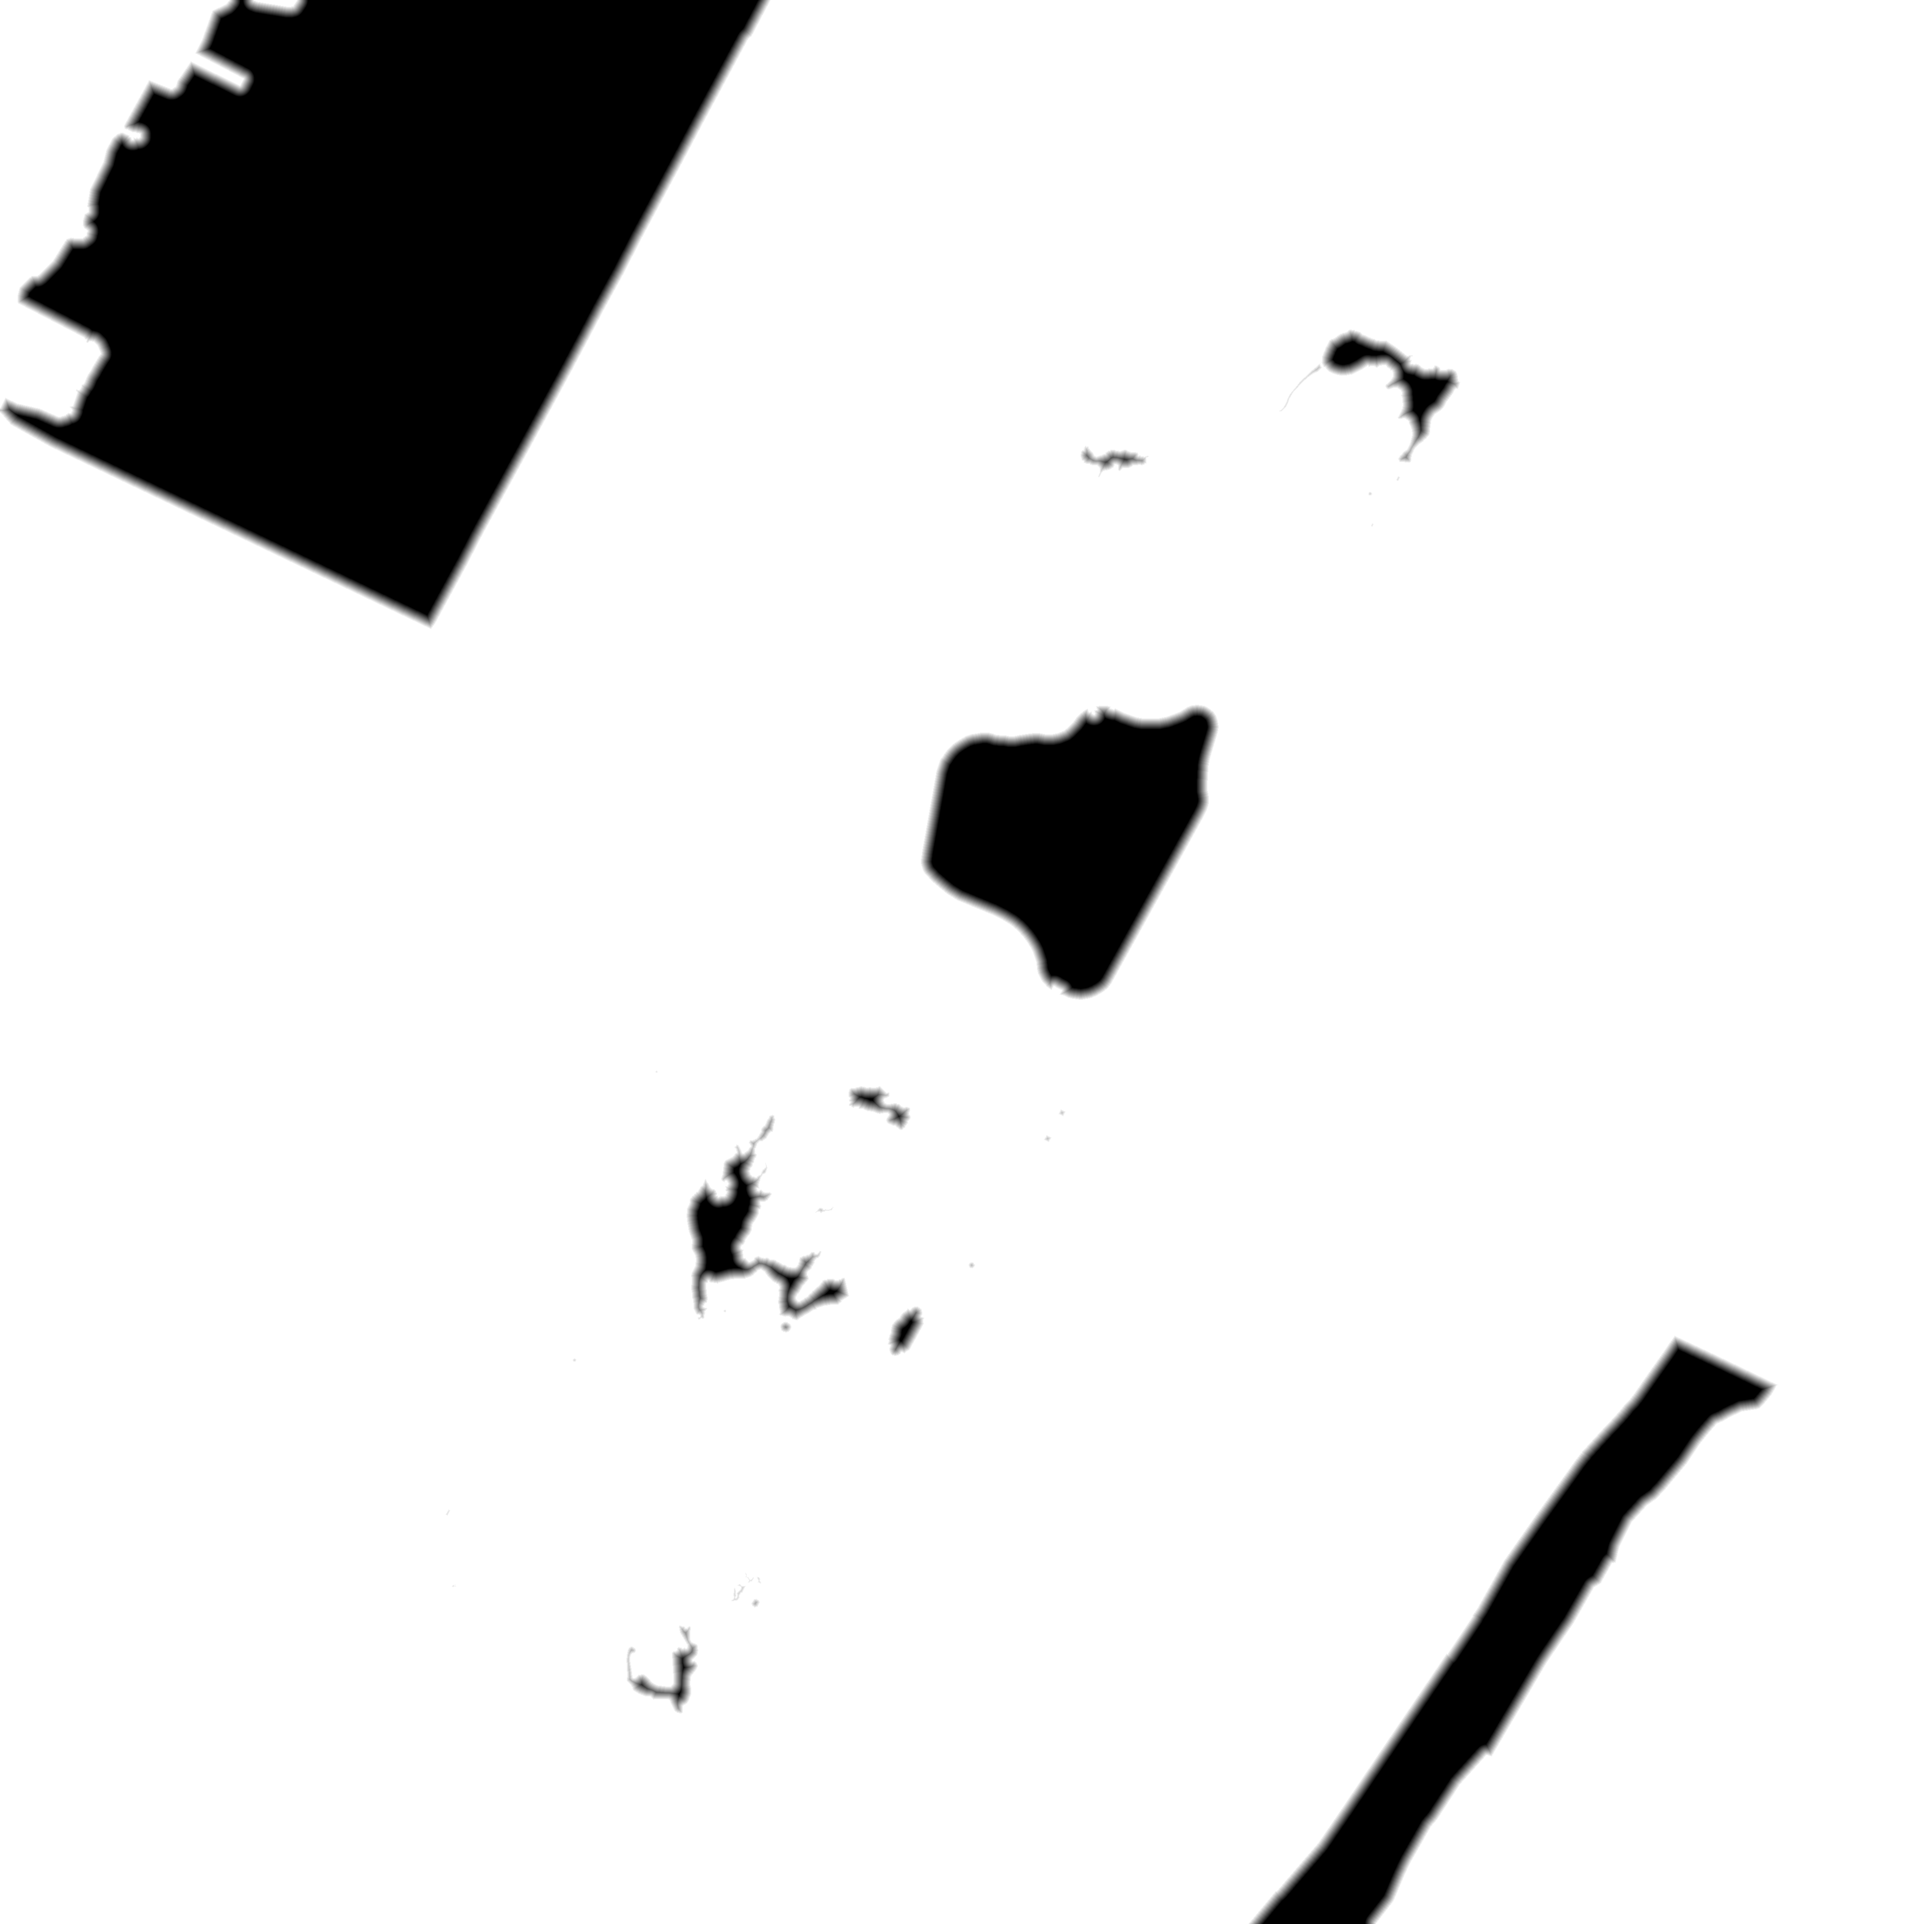
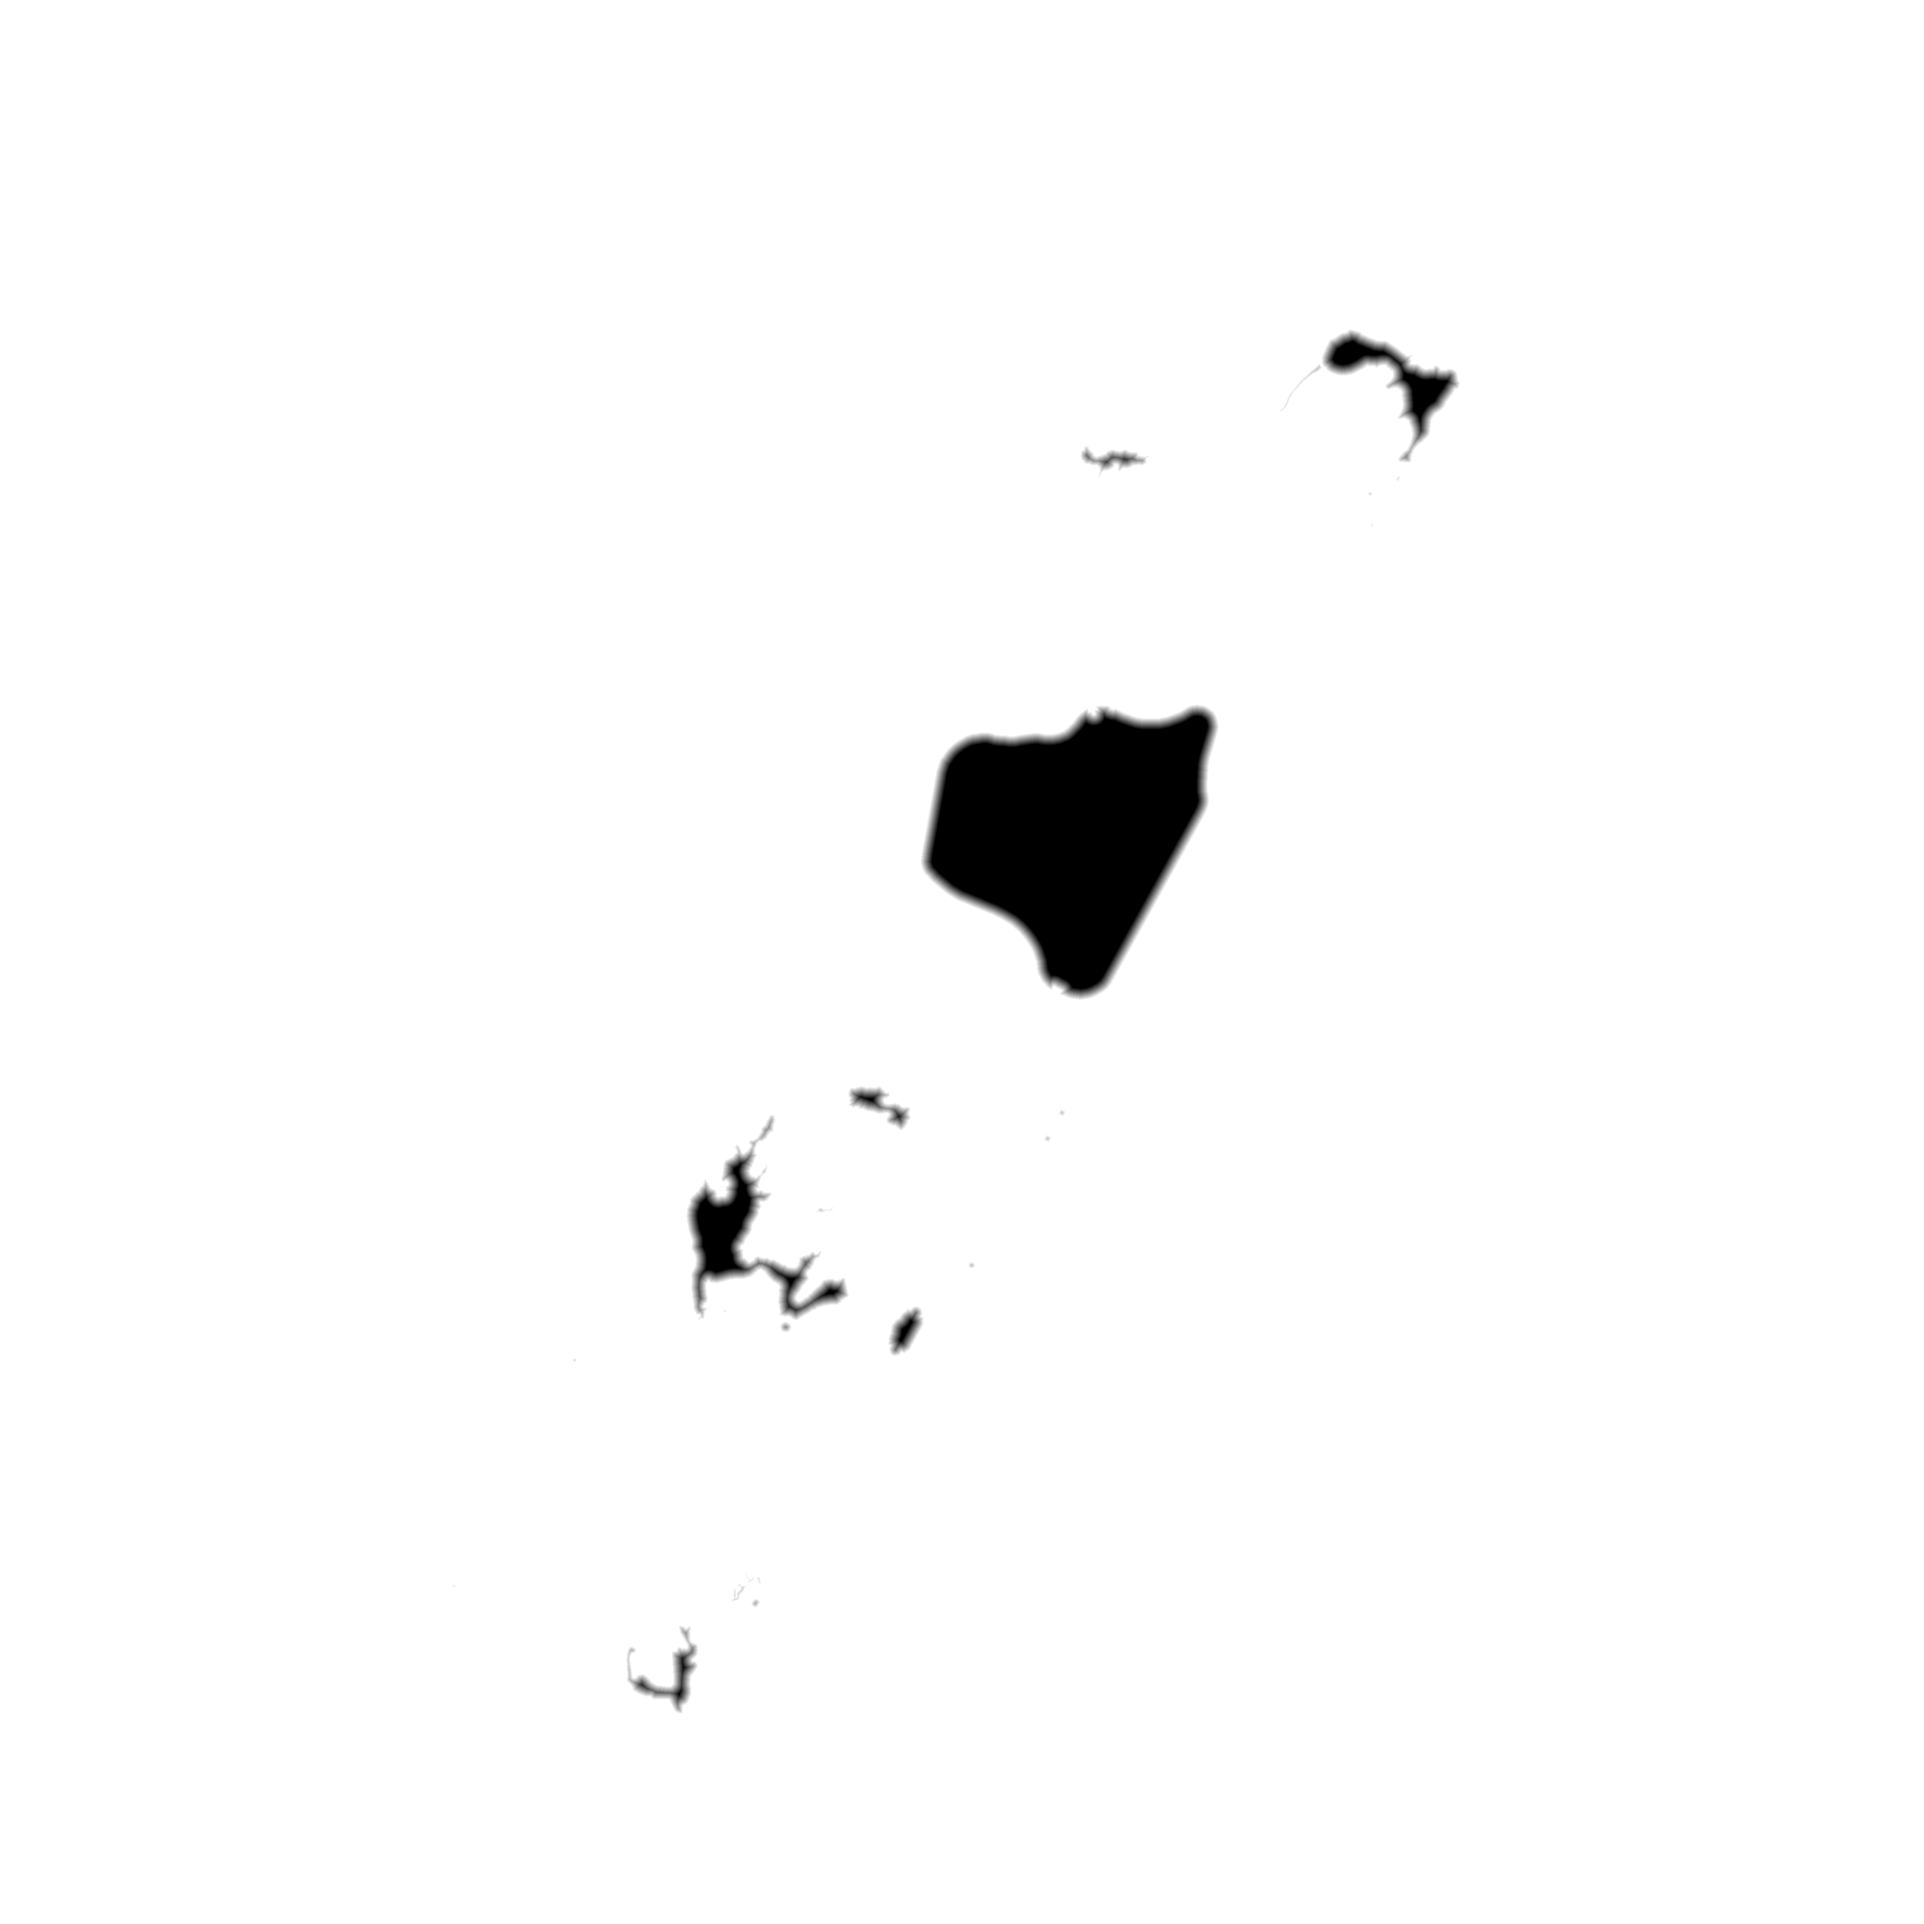
Filter degenerate water bodies and match water mesh to atlas grid (1.22m)
Overpass bbox query caught rivers extending far outside the park (Harlem
River at Z=-10471, West Channel at Z=+4029). Added centroid-in-boundary
filter removing 4 bodies. Reduced WATER_CELL from 2.0m to 1.22m to match
the world atlas grid resolution. Updated trash can comments.

Changed region(s): [[0.0, 0.0, 0.4062, 0.3438], [0.6562, 0.6875, 0.9375, 1.0]]

diff --git a/convert_to_godot.py b/convert_to_godot.py
@@ -975,6 +975,32 @@ def main() -> None:
                 wb["water_type"] = wtype
             water_out.append(wb)
 
+    # Filter water bodies to park boundary (Overpass bbox catches rivers extending
+    # far outside — e.g. Harlem River at Z=-10471, West Channel at Z=+4029)
+    if boundary_pts:
+        bx_w = [float(p[0]) for p in boundary_pts]
+        bz_w = [float(p[1]) for p in boundary_pts]
+        bnd_w = len(boundary_pts)
+
+        def _centroid_in_boundary(pts_2d):
+            cx = sum(p[0] for p in pts_2d) / len(pts_2d)
+            cz = sum(p[1] for p in pts_2d) / len(pts_2d)
+            inside = False
+            j = bnd_w - 1
+            for i in range(bnd_w):
+                zi, zj = bz_w[i], bz_w[j]
+                if (zi > cz) != (zj > cz):
+                    if cx < bx_w[i] + (cz - zi) / (zj - zi) * (bx_w[j] - bx_w[i]):
+                        inside = not inside
+                j = i
+            return inside
+
+        before = len(water_out)
+        water_out = [w for w in water_out if _centroid_in_boundary(w["points"])]
+        removed = before - len(water_out)
+        if removed:
+            print(f"  Water: removed {removed} bodies outside park boundary")
+
     # --- Streams (linear waterways) ---
     streams_out = []
     for wid, tags in ways_tags.items():
